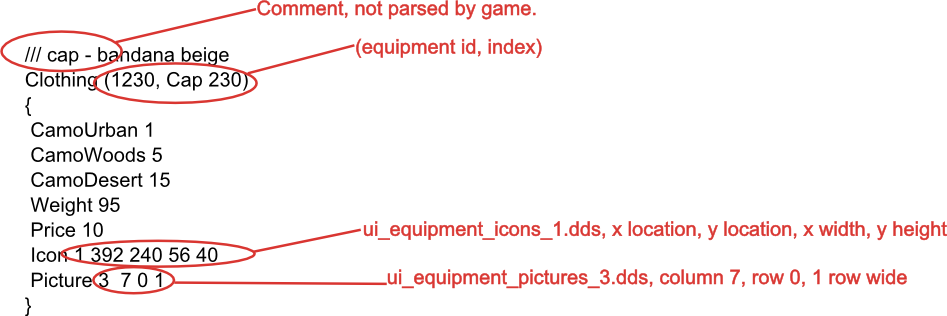
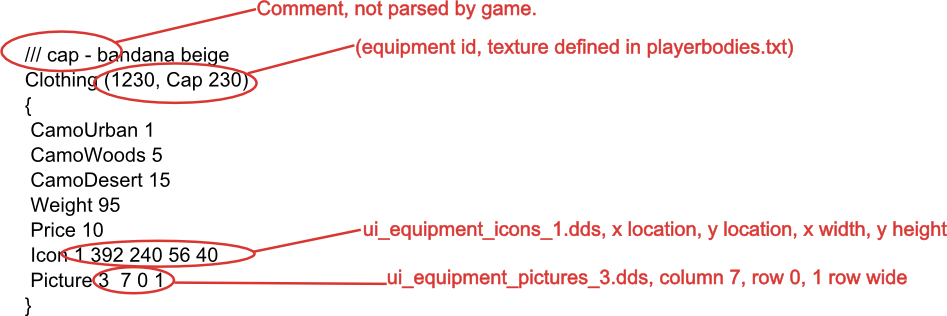
* additions to clothing configuration documentation

Changed region(s): [[0.49, 0.1139, 0.8574, 0.1709]]

diff --git a/src/experimental/pygletwx/pygletwx.py b/src/experimental/pygletwx/pygletwx.py
@@ -181,9 +181,9 @@ class TestCanvas(WxCanvas):
         sprite = pyglet.sprite.Sprite(image, batch=batch)
         sprite.scale = 0.5
         sprite.draw()
-##        sprite.x = 0
-##        sprite.y = 0
-##        batch.draw()
+        sprite.x = 0
+        sprite.y = 0
+        batch.draw()
 
 class TestFrame(wx.Frame):
     def __init__(self, parent, title):
